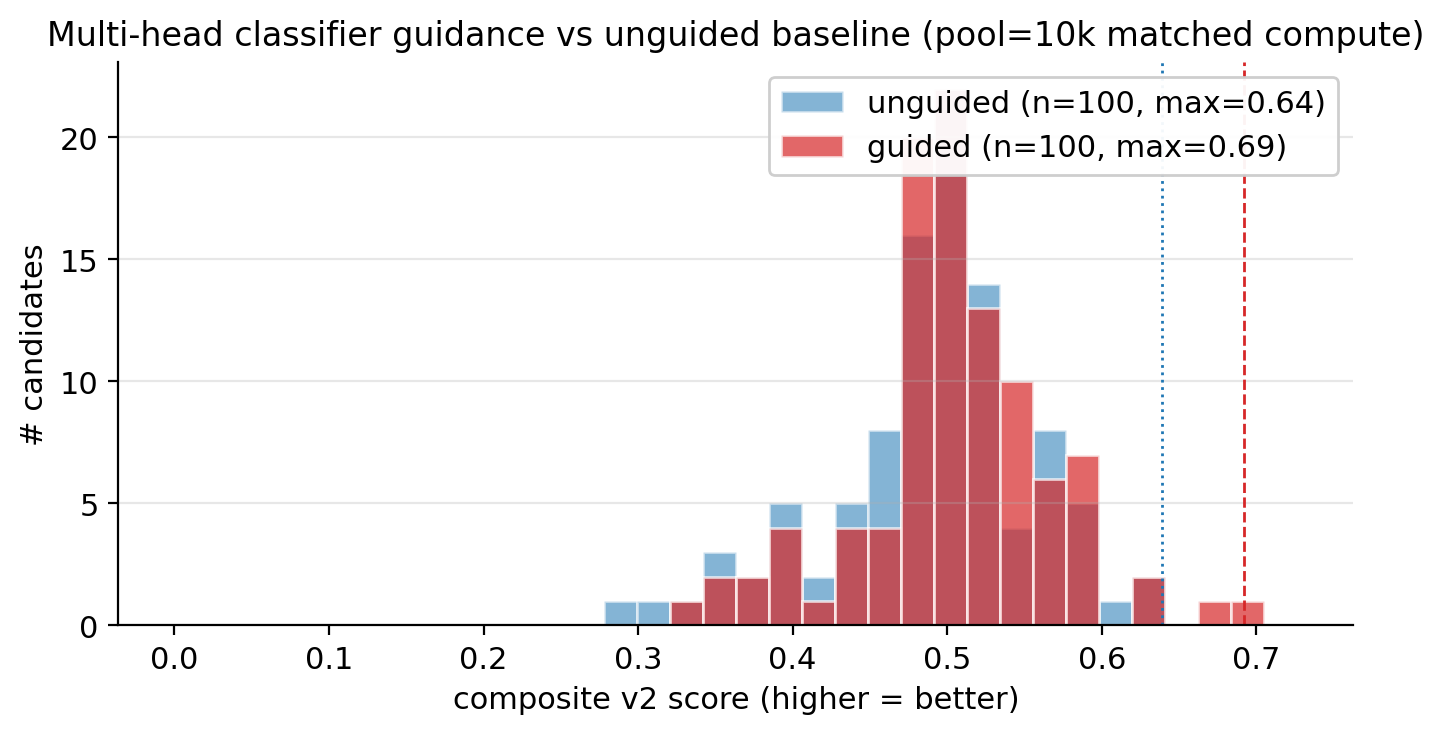
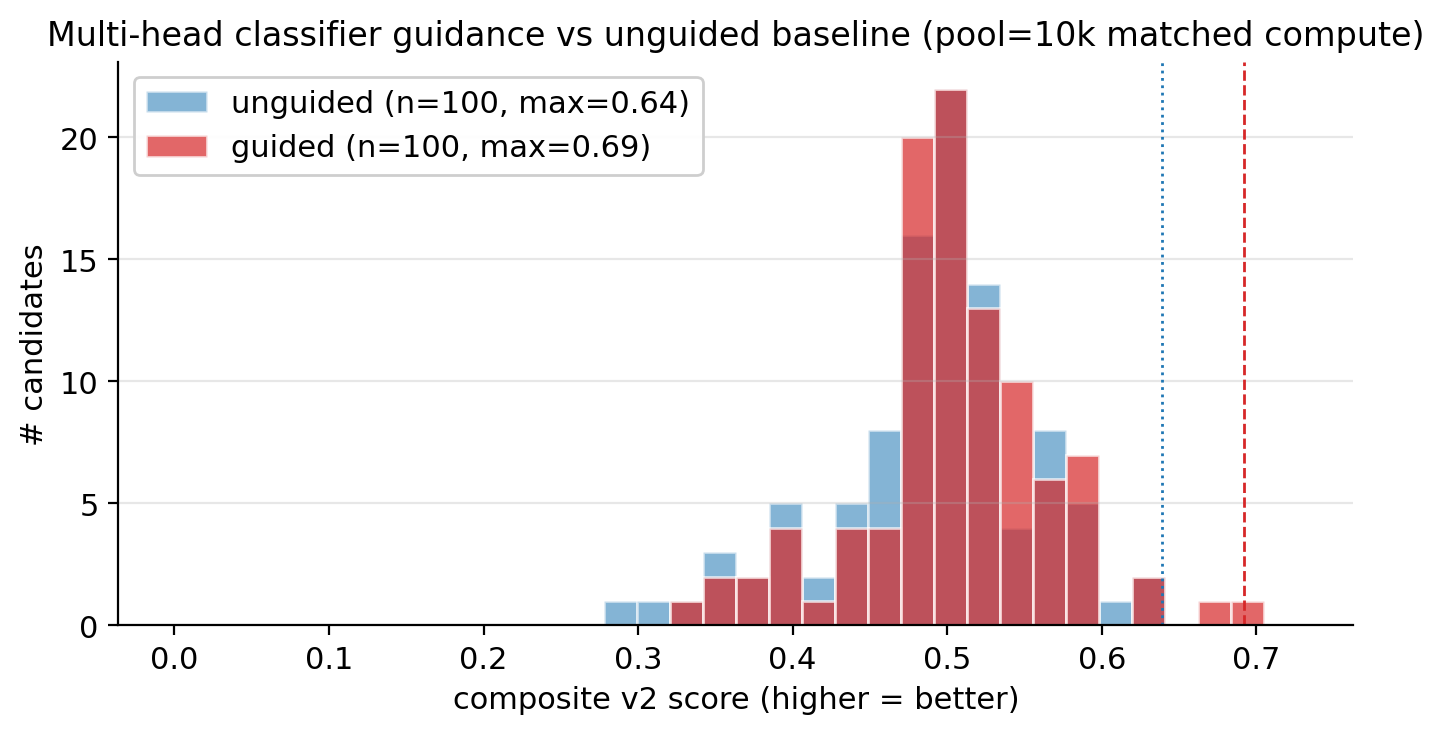
Fig 9 legend top-left + 4 visual-abstract candidates via Imagen 4.0
Fig 9 (fig7_guided_vs_unguided): legend was loc='upper right' which sat
directly over the right tail of the distribution where the headline
guided-shift evidence lives (max=0.69 dashed line). Moved to loc='upper
left'. Also saved 200-dpi PNG sidecar.

visual_abstract_prompt.md: written specification with 4 candidate
prompts emphasising different visual metaphors. Generated via Imagen
4.0 standard quality (gemini-imagegen skill).

visual_abstract_candidates/ - 4 PNG candidates:
  candidate_A 16:9, three-panel pipeline
  candidate_B 16:9, productive-quadrant scatter
  candidate_C 3:4, three-frame vertical narrative
  candidate_D 16:9, full methodology figure
Need user review.

Changed region(s): [[0.5298, 0.0899, 0.9349, 0.2398], [0.0935, 0.0899, 0.4986, 0.2398]]

diff --git a/docs/paper/make_figures.py b/docs/paper/make_figures.py
@@ -306,12 +306,15 @@ def fig_guided_vs_unguided():
     ax.set_xlabel("composite v2 score (higher = better)")
     ax.set_ylabel("# candidates")
     ax.set_title("Multi-head classifier guidance vs unguided baseline (pool=10k matched compute)")
-    ax.legend(loc="upper right", framealpha=0.95)
+    # Place legend top-left so it doesn't obscure the right tail of the
+    # distribution (which is where the headline guided-shift evidence lives).
+    ax.legend(loc="upper left", framealpha=0.95)
     ax.grid(True, axis="y", alpha=0.3)
     fig.tight_layout()
     fig.savefig(OUT / "fig7_guided_vs_unguided.svg")
+    fig.savefig(OUT / "fig7_guided_vs_unguided.png", dpi=200, bbox_inches="tight")
     plt.close(fig)
-    print(f"  fig7: {OUT / 'fig7_guided_vs_unguided.svg'}")
+    print(f"  fig7: {OUT / 'fig7_guided_vs_unguided.svg'} (+ .png)")
 
 
 def fig_head_sweep():

diff --git a/visual_abstract_prompt.md b/visual_abstract_prompt.md
@@ -1,0 +1,37 @@
+# DGLD visual-abstract prompts (4 candidate styles)
+
+## Specification
+
+The visual abstract should communicate, at a single glance:
+
+1. **Domain**: energetic-materials chemistry (CHNO molecules; nitro groups visible)
+2. **The bottleneck**: a tiny labelled core (RDX, HMX, CL-20, TATB) inside a much larger pool of weakly-labelled molecules
+3. **The method**: latent diffusion in a frozen VAE space, classifier guidance from multi-head property predictors, chemistry-credibility filter
+4. **The output**: a top candidate (trinitro-1,2-isoxazole, L1) at HMX-class properties (rho ≈ 2 g/cm³, D ≈ 9.5 km/s)
+5. **The validation chain**: DFT confirmation, xTB stability, retrosynthesis check
+6. **The "productive quadrant" framing**: novel + on-target
+
+## Candidate prompts
+
+Each candidate emphasises a different visual metaphor.
+
+### Candidate A — Pipeline schematic, editorial style
+
+> Editorial scientific-illustration in a deep navy + gold + cream palette, aspect ratio 16:9, suitable for a Nature Machine Intelligence visual abstract. Three-panel left-to-right layout. Left panel: a stylised pyramid of molecule cards labelled "experimental (3000)", "DFT (9000)", "Kamlet-Jacobs (25000)", "3D-CNN surrogate (30000)" — only the top two layers glow gold ("trusted"). Centre panel: a frozen VAE encoder feeding a latent cloud, then a denoising-diffusion process visualised as a series of concentric circles converging to a single bright point. Multiple property gauges (density, detonation velocity, heat of formation, sensitivity) feed gradient arrows into the diffusion process. Bottom-edge filter labelled "chemistry rules". Right panel: a chemical structure rendered as a 2D skeletal formula of a trinitroisoxazole (5-membered ring with three NO2 groups), with a small inset showing a 3D ball-and-stick model and the label "rho=2.00, D=9.56, P=40.5". A subtle background of TNT-like benzene rings fades into the dataset pyramid. White background; clean serif typography. No people, no hands, no smiling robots. Editorial energy, Nature paper, not commercial AI art.
+
+### Candidate B — Productive-quadrant scatter, framed as the headline
+
+> Scientific data-visualisation graphic, 16:9, deep navy + gold accent on cream. Centred 2D scatter plot with axis labels "novelty (1 - max Tanimoto)" on x and "predicted detonation velocity D (km/s)" on y. The plot space is divided into four quadrants by faint gridlines. Most points (small grey dots) cluster in the bottom-left and bottom-right; one cluster of bright gold points sits ALONE in the top-right quadrant labelled "DGLD (productive quadrant: novel AND HMX-class)". Two single red points labelled "SMILES-LSTM" and "MolMIM 70M" sit far from the gold cluster - one at novelty=0 and one at low-D. Several small chemical-structure thumbnails (skeletal formulas, nitro groups visible) annotate the gold cluster with arrows. A single large gold thumbnail is highlighted at top-right with the label "L1 trinitro-1,2-isoxazole, rho=2.00, D=9.56 km/s". Top of image: small all-caps title "DGLD: Domain-Gated Latent Diffusion for Energetic Materials". Editorial style, no AI-art kitsch.
+
+### Candidate C — The chemotype rediscovery story
+
+> A visual narrative in three vertically-stacked frames, vertical 4:5 aspect ratio. Cream background, navy line-art with gold highlights. Frame 1 (top): a labyrinthine cloud of small molecule shapes labelled "65,980 known energetic molecules"; one specific molecule (3,4,5-trinitro-1H-pyrazole, the published Hervé compound) glows. Frame 2 (middle): a geometric depiction of a latent space with a diffusion trajectory threading from a Gaussian distribution toward a bright target region; small grey arrows representing classifier-guidance gradients pull the trajectory toward "high D, high rho, low sensitivity". Frame 3 (bottom): a single highlighted skeletal structure of trinitro-1,2-isoxazole (the L1 lead) with three NO2 groups on a five-membered O-N-C-C-C ring; below it the label "predicted: rho=2.00 g/cm^3, D=9.56 km/s; DFT-corroborated: D=9.52 km/s; chemotype-rediscovered (Sabatini 2018, Tang 2017)". Editorial scientific-illustration, no human figures, no commercial slick.
+
+### Candidate D — The full pipeline as one page
+
+> A clean methodology figure spanning the full page horizontally, 16:9, deep navy + cream + gold accent. Left third: a stylised "trust pyramid" of training data layers (A experimental, B DFT, C K-J, D surrogate) feeding a frozen VAE encoder. Middle third: a latent-space diffusion model with classifier-guidance heads (small icons for "viability", "sensitivity", "performance", "hazard"); a chemistry-rules filter as a sieve symbol below. Right third: outputs - a 3-by-4 grid of skeletal chemical structures in muted grey, with one structure highlighted in gold (the L1 lead) and labels "12 chem-pass leads, DFT-validated, retrosynthesis-checked". Connecting arrows: data-flow in navy, classifier-guidance gradients in gold dashed, chemistry-filter rejection in red dashed. Bottom band: small icons for "DFT", "xTB", "AiZynth" with checkmarks. Caption-style serif typography. No hands, no robots, no decorative background. Editorial register, suitable for a single-page graphical abstract on a Nature Machine Intelligence preprint.
+
+## Implementation note
+
+Generate all four via Imagen 4.0 standard quality (1K resolution, 16:9 except candidate C which is 4:5).
+Output directory: `visual_abstract_candidates/`.
